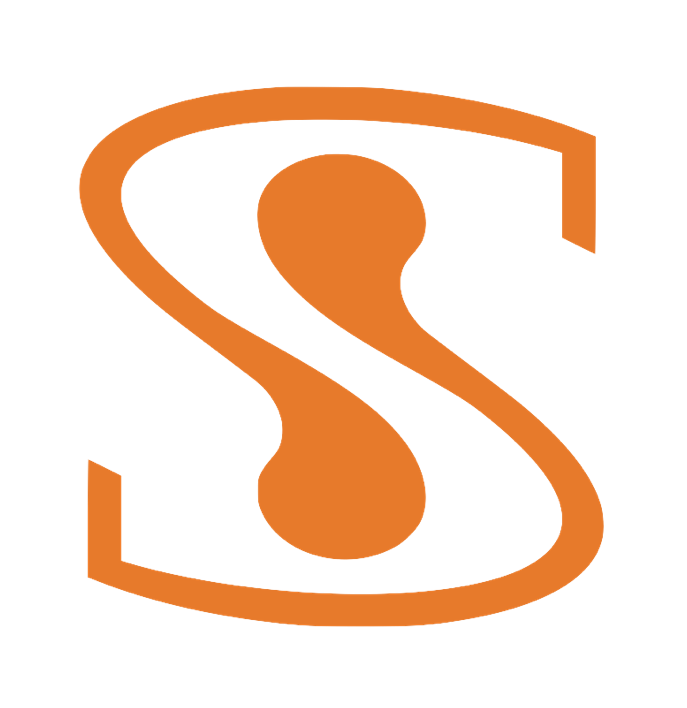
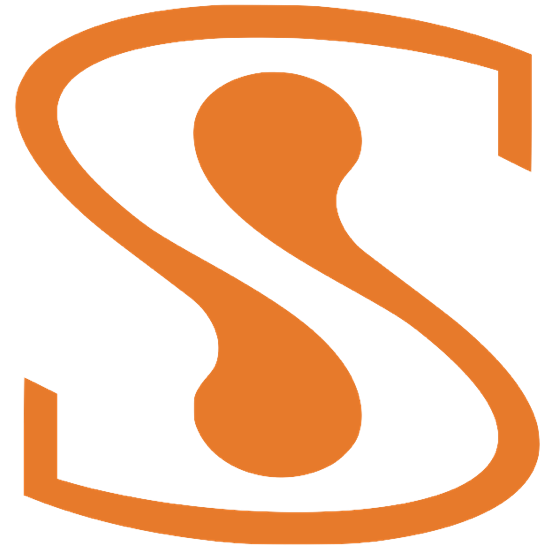
fine tuned sponsors images on sponsors page

diff --git a/Public/App/YearX/styles/Pages/sponsors.css b/Public/App/YearX/styles/Pages/sponsors.css
@@ -26,7 +26,7 @@
   width: 150px;
   height: 150px;
   margin: auto;
-  padding: 10px;
+  padding: 20px;
 }
 
 .sponsors .sponsor-list .sponsor .image img {
